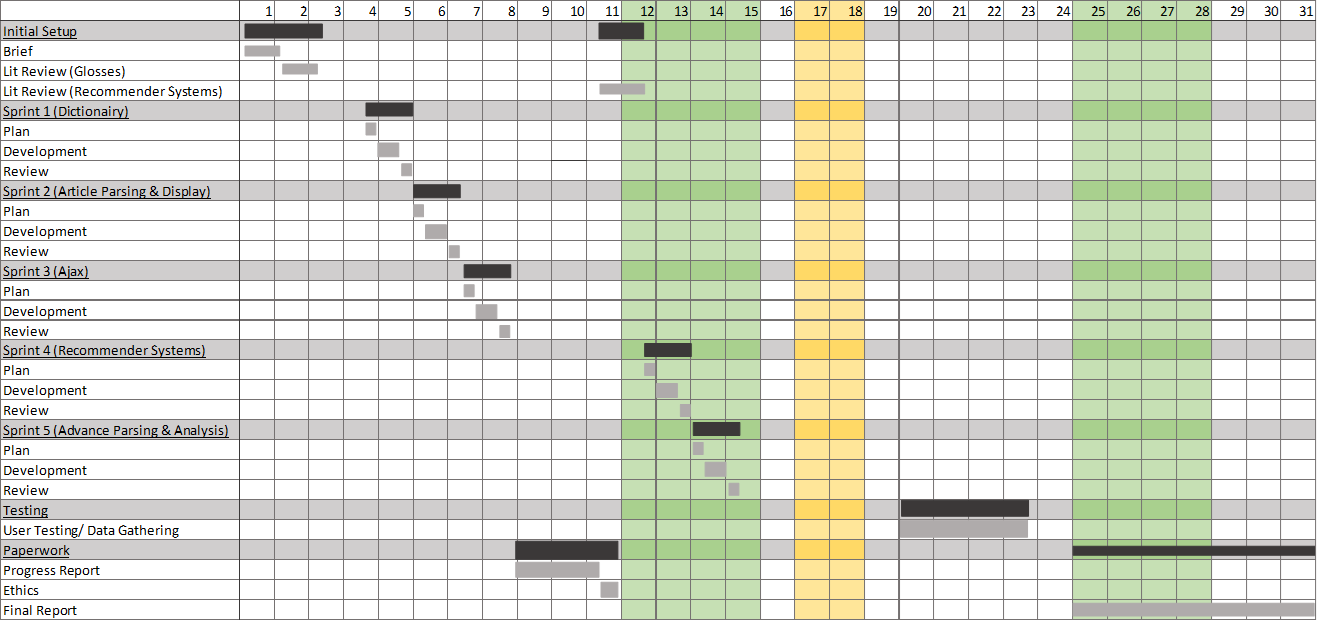
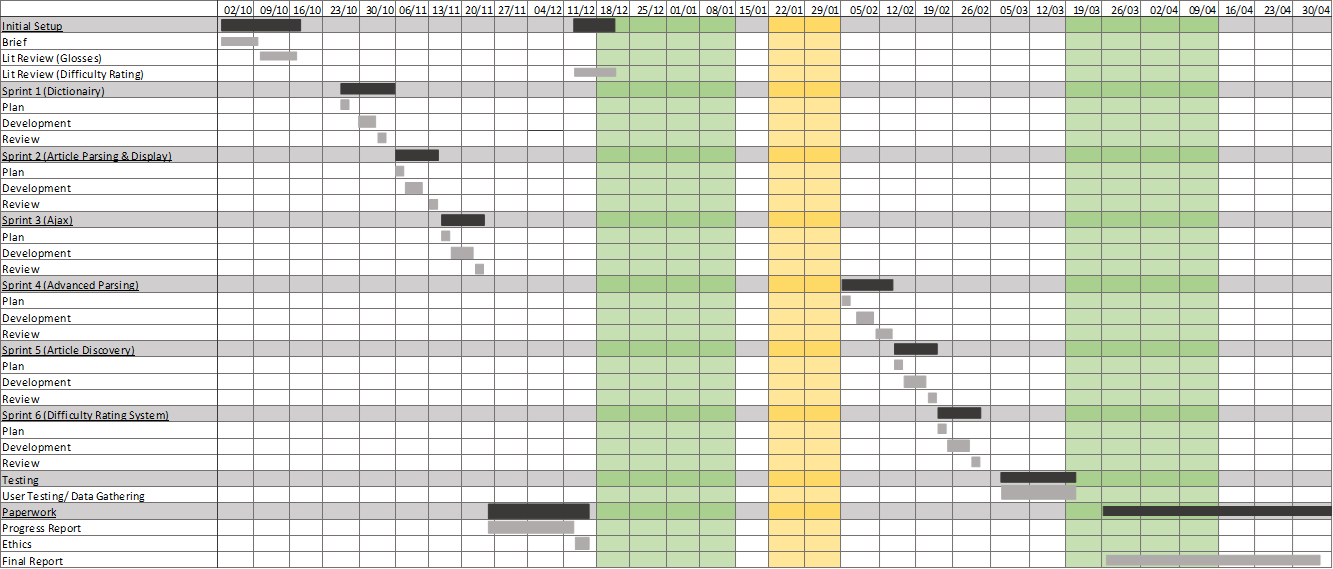
Final Report (2865)

diff --git a/Final Report/Chapters/ProjectPlan.tex b/Final Report/Chapters/ProjectPlan.tex
@@ -5,40 +5,14 @@ A visualization for the plan for this project can be seen in the Gannt chart in 
 
 \section{Readings and Research}
 
-The plan details that reading was to be divided into two parts, reading about glosses and reading about difficulty rating systems. With the reading about difficulty rating systems being done after the gloss was developed. This was done as the difficulty rating system was not part of the minimum viable project, so the reading about it could be left until after the development of the minimum viable project was complete.
+The plan details that reading was to be divided into two parts, reading about glosses and reading about difficulty rating systems. With the reading about difficulty rating systems being done after the gloss was developed. This was done as the difficulty rating system was not part of the minimum viable project, so the reading about it could be left until after the development of the minimum viable project was complete. The vast majority of this reading was academic, looking into the effectiveness of various glosses and methods of rating the difficulty of articles.
+
+Other reading was done during the planning stage of each sprint, this reading was more technical and was about researching and deciding upon the technologies that were to be used for that sprint. Once a technology had been decided upon, there was some time spent on learning how to integrate it with project.
+
 
 \section{Development}
 
-The application was developed using AGILE methods. The project was divided into six sprints and they were completed in the order in which they are described. The order was chosen as it would allow the application to reach minimal viable project status as soon as possible (end of sprint 3), leaving the more advanced sprints for later. The sprints are detailed below.
-
-\begin{enumerate}
-	\item \textbf{Translation Lookup}
-	
-	The aim of this sprint is to establish a valid method to retrieve single word translation and grammatical data.
-	
-	\item \textbf{Article Parsing \& Presentation}
-	
-	The aim of this sprint is develop a method for the parsing of articles and then to present them through a web browser
-	
-	\item \textbf{AJAX}
-	
-	The aim of this sprint is to develop the javscript code that will allow the gloss to display entries.
-	
-	\item \textbf{Advance Parsing}
-	
-	The aim of this sprint is to allow advanced parsing methods to be performed on the text. Allowing for parts of speech identification of words. 
-	
-	\item \textbf{Article Discovery}
-	
-	The aim of this sprint is get the application to find articles on it's own, removing the need for the user to find their own articles.
-	
-	\item \textbf{Difficulty Rating System}
-	
-	The aim of this sprint it to develop the system that allows the application to rate how difficult the user will find various articles. 
-	
-\end{enumerate}
-
-AGILE methodologies were used as they allowed the developer to have regular meetings with the project supervisor, discussing the progress made, what was left to be done whether or not it was achievable.
+The application was developed using AGILE methods. these methods were used as they allowed the developer to have regular meetings with the project supervisor, discussing the progress made, what was left to be done whether or not it was achievable.
 
 \section{Testing}
 

diff --git a/Final Report/Chapters/BackgroundReading.tex b/Final Report/Chapters/BackgroundReading.tex
@@ -1,0 +1,36 @@
+\chapter{Background Reading}
+
+Reading for the project can be divided into reading about the gloss aspect of the application, and then reading about a difficulty rating system. Each of these parts of the reading happened independently, as their subject matter are largely unrelated.
+
+
+\section{Glosses}
+
+The research done into glosses is divided into to parts, the first being research into whether or not glosses are effective, the second part was about the various designs of glosses, trying to discover which ones were the most effective.
+
+\subsection{Effectiveness of Electronic Glosses}
+
+\textcite{abraham2008} finds that, overall, that learners with access to an electronic gloss will perform better than learners without access, in both skills of reading comprehension and vocabulary retention, particularly on intermediate learners. They note that the small sample size of studies analysed should mean that their study is not seen as conclusive evidence, however suggestive evidence is enough to establish that development of this project should continue.
+
+Another caveat that should also be added that most of the studies analysed in \textcite{abraham2008} are of tailor-made glosses designed for a specific text, as such the research findings of these studies and the meta-study may not be fully applicable to this project.
+
+
+\subsection{Design Methods of Electronic Glosses}
+
+\textcite{roby1999} identifies three main parts of a gloss' design, its presentation, its taxonomy and its density. However, as density for this project's application is something determined by the leaner, background reading into design was limited to presentation and taxonomy. 
+
+\subsubsection{Gloss Presentation}
+
+Gloss presentations is how the gloss is presented relative to the text. 
+
+\textcite{chen2016} identifies the three most researched gloss presentations as: in-text, marginal and pop up.  \textcite{abuseileek2008} finds that out of these three the marginal presentation category performs the best in both vocabulary retention and reading comprehension, while \textcite{marefat2016} finds that pop-ups are more effective than marginal for reading comprehension. As \textcite{chen2016} says, there has not been sufficient research into gloss location for valid conclusions to be drawn. 
+
+\subsubsection{Gloss Taxonomy}
+
+Gloss taxonomy is the content of the gloss.
+
+\textcite{gettys2001} finds that dictionary style translations perform better than sentence level translations, suggesting that it would be better to translate the dictionary form of the word, providing information about how the word changed from its dictionary form to its current form in the article. 
+
+There is a large body of research that suggests that providing multimedia glosses is more effective than providing text only ones. \autocite{yoshii2006, kost1999}. This is harder to implement  as it would the application to have a better understanding of the word's context to provided an accurate image of the word. 
+
+
+\section{Article Difficulty Rating}

diff --git a/Final Report/Chapters/ApplicationOutline.tex b/Final Report/Chapters/ApplicationOutline.tex
@@ -1,0 +1,44 @@
+\chapter{Proposed Application}
+
+Below is a rough outline of the application and list of the development sprints for the application. More detailed descriptions of both the design of the application and the server side logic of the application are in later chapters. 
+
+\section{Outline}
+
+The outline of the application is as follows: 
+
+The user starts the application by selecting a category of articles and their level of experience with German. From there, they are presented with a list of articles of that category, with each article having a difficulty rating. The user can then select an article based on the title of the article as well as the difficulty rating.
+
+Once the user has selected the article, they are presented with the text of the article. From here, they can click on words in the article, and the application will show them a translation of the word and grammatical information about the word in a marginal gloss form. These gloss element can then be removed from the screen when no longer needed.
+
+A marginal gloss was chosen based on \textcite{abuseileek2008} while the decision to use dictionary level translations was made based on the research of \textcite{gettys2001} as they are effective and the more effective multimedia glosses too complicated to implemented.
+
+\section{Development}
+
+Development of the application was divided into six sprints and they were completed in the order in which they are described. The order was chosen as it would allow the application to reach minimal viable project status as soon as possible (end of sprint 3), leaving the more advanced sprints for later. The sprints are detailed below.
+
+\begin{enumerate}
+	\item \textbf{Translation Lookup}
+	
+	The aim of this sprint is to establish a valid method to retrieve single word translation and grammatical data.
+	
+	\item \textbf{Article Parsing \& Presentation}
+	
+	The aim of this sprint is develop a method for the parsing of articles and then to present them through a web browser
+	
+	\item \textbf{AJAX}
+	
+	The aim of this sprint is to develop the JavaScript code that will allow the gloss to display entries.
+	
+	\item \textbf{Advance Parsing}
+	
+	The aim of this sprint is to allow advanced parsing methods to be performed on the text. Allowing for parts of speech identification of words. 
+	
+	\item \textbf{Article Discovery}
+	
+	The aim of this sprint is get the application to find articles on it's own, removing the need for the user to find their own articles.
+	
+	\item \textbf{Difficulty Rating System}
+	
+	The aim of this sprint it to develop the system that allows the application to rate how difficult the user will find various articles. 
+	
+\end{enumerate}

diff --git a/Final Report/Chapters/ApplicationDesign.tex b/Final Report/Chapters/ApplicationDesign.tex
@@ -31,7 +31,7 @@ Once the user has selected an article from the list, they are shown are the view
 
 \input{Figures/view3}
 
-Clicking on a word on the article, will make a gloss item to appear on the right of the screen, making the screen appear similar to the view shown in figure \ref{fig:view4}. This position is a marginal gloss, which, is a form a gloss that is effective \parencite{abuseileek2008}. New items appear at the bottom of the column, permanently, until dismissed. If there are too many gloss entries, then a scroll bar will appear, allowing the user to scroll down. These gloss entries are permanent until dismissed to prevent the user from having to lookup the same word multiple times.
+Clicking on a word on the article, will make a gloss item to appear on the right of the screen, making the screen appear similar to the view shown in figure \ref{fig:view4}. This position is a marginal gloss, which, is a form a gloss that is effective \autocite{abuseileek2008}. New items appear at the bottom of the column, permanently, until dismissed. If there are too many gloss entries, then a scroll bar will appear, allowing the user to scroll down. These gloss entries are permanent until dismissed to prevent the user from having to lookup the same word multiple times.
 
 \input{Figures/view4}
  
@@ -46,5 +46,5 @@ The body of the gloss is divided into three parts. The root word, the grammatica
 
 After the root, the grammatical information of the word. First is a short description of the word's lexical category and form of the word. Following this is a bullet point list of the possible reasons the word has mutated from the root; Its tense and person if it's a verb, gender, plurality, and case if it's a noun and other information for other lexical categories. 
 
-Finally the body is concluded with various translations of the root words, including all senses of the word. In the case that the program cannot find a translation, the phrase "no translations found" is presented instead. 
+Finally the body is concluded with various translations of the root words \autocite{gettys2001}, including all senses of the word. In the case that the program cannot find a translation, the phrase "no translations found" is presented instead. 
  

diff --git a/Final Report/Chapters/ApplicationLogic.tex b/Final Report/Chapters/ApplicationLogic.tex
@@ -2,8 +2,10 @@
 
 \section{Article Discovery}
 
+For the article discovery portion of the application, a way was needed.
+
 \section{Article Difficulty Rating}
 
-The difficulty rating of the article is calculated using two things, the article text as well as the user's experience level. The process takes a while, as the article must be downloaded and the content of the article extracted first. 
+The difficulty rating of the article is calculated using two things, the article text as well as the user's experience level. The process takes a while, as the article must be downloaded and the content of the article extracted first. As this must be done with several articles. 
 
 \section{Gloss Creation}

diff --git a/Final Report/final report.tex b/Final Report/final report.tex
@@ -40,9 +40,12 @@
 \include{Chapters/Introduction}
 \include{Chapters/ProjectPlan}
 \include{Chapters/BackgroundReading}
+\include{Chapters/ApplicationOutline}
 \include{Chapters/ApplicationDesign}
 \include{Chapters/ApplicationLogic}
 \include{Chapters/UserTesting}
+\include{Chapters/Evaluation}
+\include{Chapters/Conclusion}
 %\appendix
 %\include{Appendices/ApplicationCode}
 

diff --git a/Final Report/Chapters/UserTesting.tex b/Final Report/Chapters/UserTesting.tex
@@ -1,0 +1,2 @@
+\chapter{User Testing and Feedback}
+

diff --git a/Final Report/Chapters/Conclusion.tex b/Final Report/Chapters/Conclusion.tex
@@ -1,0 +1,1 @@
+\chapter{Conclusion and Future Work}

diff --git a/Final Report/Chapters/Evaluation.tex b/Final Report/Chapters/Evaluation.tex
@@ -1,0 +1,1 @@
+\chapter{Evaluation of the Project}
